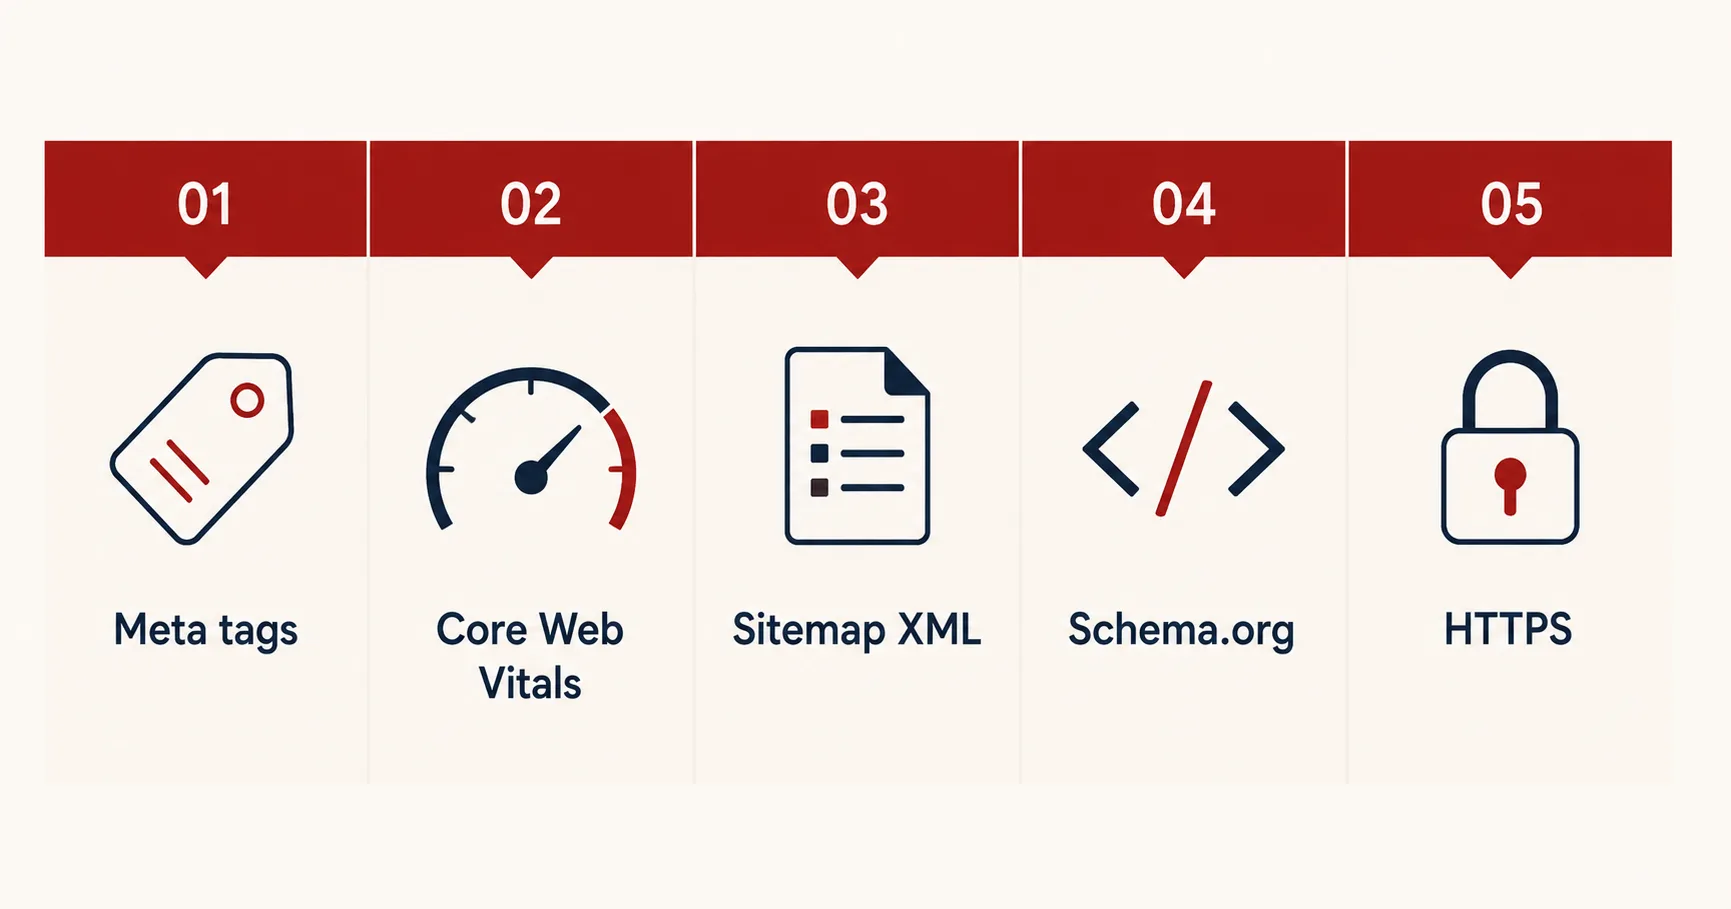
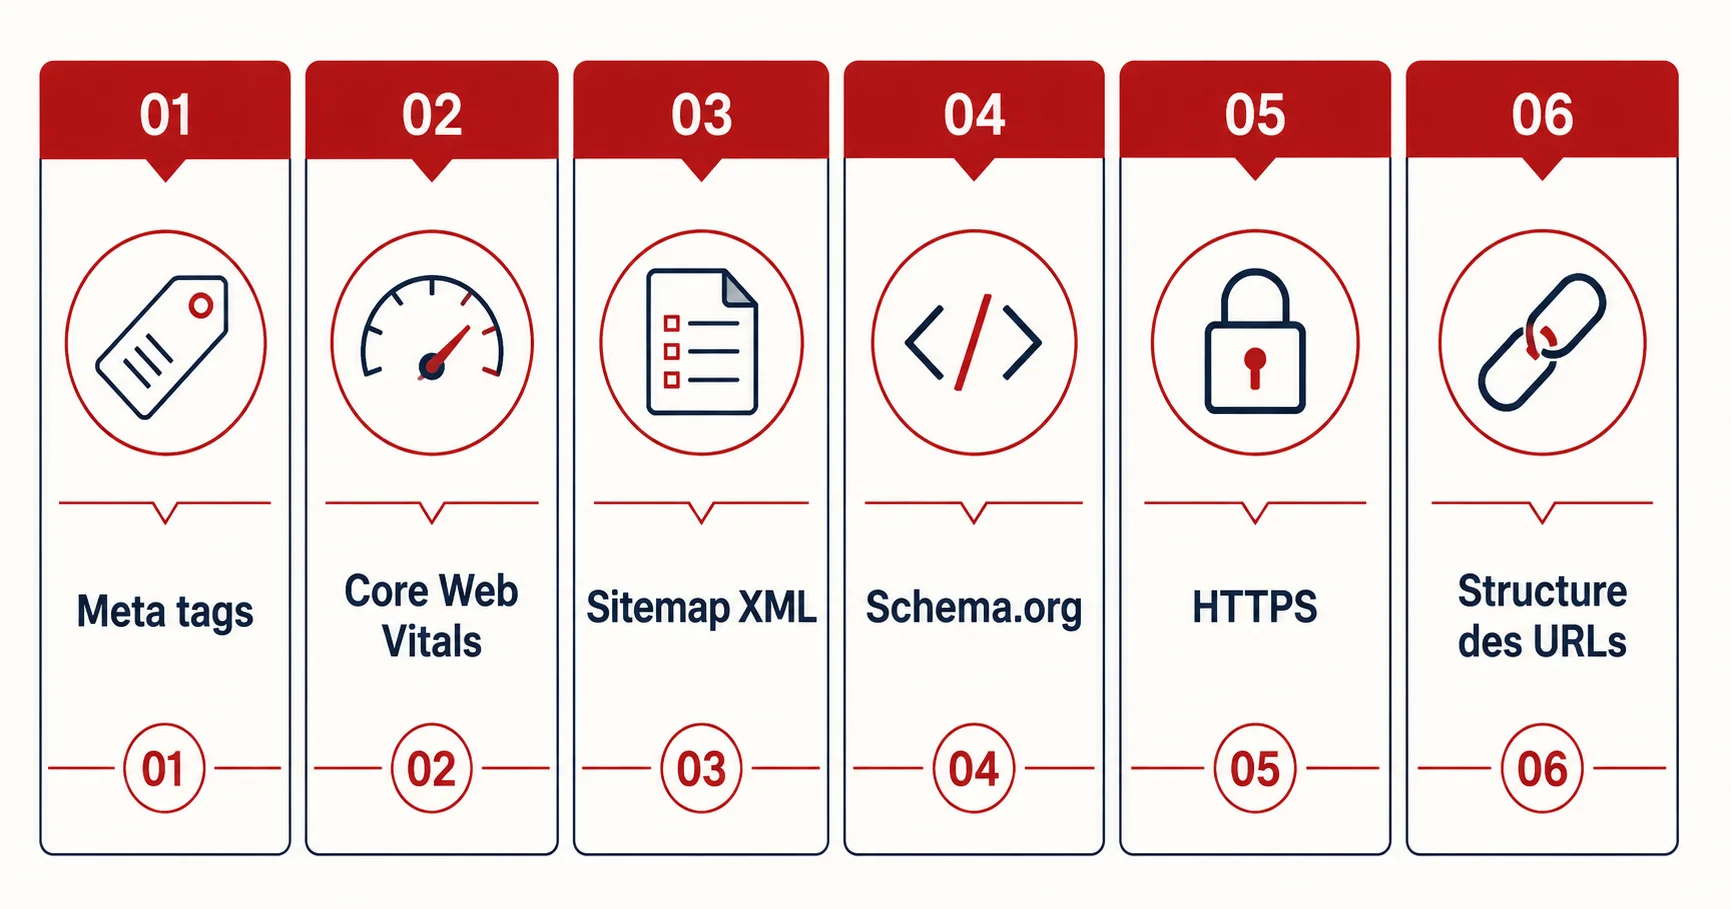
feat: SEO blog — intros + fact-check 4 articles
- Champ intro sur les 4 articles (réponse directe intention de recherche)
- Intro remontée avant image hero dans le HTML (.article-intro block)
- Classe CSS .article-intro ajoutée
- Infographie article 1 : WebP 6 piliers (1.2MB PNG -> 85KB), légende corrigée
- Article 1 : note restriction FAQPage Google août 2023
- Article 3 : pourcentage AI Overviews sourcé BrightEdge/AWR 2026 (48-60pct)
- Article 3 : note dépreciation HowTo schema SERP sept. 2023
- Article 4 : prix Cloud o2switch aligné image (12 EUR HT + promo)

Changed region(s): [[0.0, 0.0616, 0.9671, 0.9549]]

diff --git a/assets/css/style.css b/assets/css/style.css
@@ -1585,6 +1585,16 @@ main, .footer { position: relative; z-index: 1; }
   margin: 0;
 }
 
+.article-intro {
+  font-size: 18px;
+  line-height: 1.75;
+  padding: 32px 0 0;
+}
+.article-intro p { margin: 0 0 20px; }
+.article-intro strong { font-weight: 700; }
+.article-intro ul { padding-left: 28px; margin: 0 0 20px; }
+.article-intro li { margin-bottom: 10px; }
+
 .article-body {
   font-size: 18px;
   line-height: 1.75;

diff --git a/models/ArticleModel.php b/models/ArticleModel.php
@@ -56,18 +56,30 @@ class ArticleModel
                 'title'        => 'SEO technique : les fondations que tout développeur web doit maîtriser',
                 'excerpt'      => 'Balises meta, Core Web Vitals, données structurées, HTTPS… Un guide pratique de référencement technique pour développeurs qui veulent que leur site soit correctement indexé par Google.',
                 'date'         => '2026-04-10',
-                'date_updated' => '2026-05-10',
+                'date_updated' => '2026-05-19',
                 'category'     => 'SEO',
                 'read_time'    => 7,
                 'cover_image'  => '/assets/image/blog/cover-seo-technique-developpeur.webp',
                 'og_image'     => 'https://yelidev.ca/assets/image/blog/og-seo-technique-developpeur.jpg',
                 'keywords'     => 'SEO technique, référencement technique, Core Web Vitals, balises meta, données structurées, robots.txt, sitemap XML, développeur web',
+                'intro'        => <<<INTRO
+<p>Le <strong>référencement technique</strong> regroupe les optimisations de code et d'infrastructure qui permettent à Google de crawler, comprendre et indexer correctement un site. Sans ces bases, même un contenu excellent reste invisible dans les résultats de recherche — c'est pourquoi elles doivent être posées dès le lancement, pas ajoutées après coup.</p>
+<p>Voici les <strong>6 fondations incontournables</strong> du SEO technique :</p>
+<ul>
+  <li><strong>Balises meta</strong> — title unique (50–60 car.) et meta description (150–160 car.) sur chaque page</li>
+  <li><strong>Core Web Vitals</strong> — LCP &lt; 2,5 s, INP &lt; 200 ms, CLS &lt; 0,1, mesurés au 75e percentile sur de vrais utilisateurs Chrome (signal de classement Google depuis juin 2021)</li>
+  <li><strong>Sitemap XML</strong> soumis à Google Search Console</li>
+  <li><strong>Robots.txt</strong> configuré pour concentrer le budget de crawl sur les pages utiles</li>
+  <li><strong>Données structurées JSON-LD</strong> (Schema.org) pour que Google et les IA de recherche comprennent le contexte de chaque page</li>
+  <li><strong>HTTPS</strong> avec redirection 301 permanente et zéro mixed content</li>
+</ul>
+<p>Ce guide détaille chaque point avec les valeurs cibles, les erreurs les plus courantes et les outils gratuits pour tout auditer. Si vous confiez la création de votre site à un développeur, ces 6 éléments devraient être inclus par défaut dans toute prestation sérieuse.</p>
+INTRO,
                 'content'      => <<<HTML
-<p>Vous livrez du code propre, performant, bien architecturé — mais est-ce que Google peut réellement l'indexer et le comprendre ? Le <strong>SEO technique</strong>, c'est la couche invisible que la plupart des développeurs bâclent. Sans ces fondations, même le meilleur contenu reste invisible. Voici les points essentiels à mettre en place dès le lancement d'un site.</p>
 
 <figure class="article-img">
-  <img src="/assets/image/blog/5-piliers-seo-technique-infographie.webp" alt="Infographie des 5 piliers du SEO technique : balises meta, Core Web Vitals, indexation, sécurité et données structurées" loading="lazy" decoding="async">
-  <figcaption>Les 5 fondations du référencement technique à mettre en place sur tout site web</figcaption>
+  <img src="/assets/image/blog/5-piliers-seo-technique-infographie.webp" alt="Infographie des 6 piliers du SEO technique : balises meta, Core Web Vitals, sitemap XML, Schema.org, HTTPS et structure des URLs" loading="lazy" decoding="async">
+  <figcaption>Les 6 fondations du référencement technique à mettre en place sur tout site web</figcaption>
 </figure>
 
 <h2>1. Les balises meta : le minimum syndical du référencement technique</h2>
@@ -115,12 +127,12 @@ class ArticleModel
   <li><code>BlogPosting</code> pour les articles de blog</li>
   <li><code>FAQPage</code> pour les sections de questions fréquentes</li>
 </ul>
-<p>Ces marqueurs peuvent générer des <strong>rich snippets</strong> dans les résultats Google — étoiles, FAQ dépliables, extraits de recettes — ce qui augmente significativement le taux de clic (CTR) sans améliorer le classement directement.</p>
-<p>Pour aller plus loin sur le sujet, notre article <a href="/blog/geo-optimiser-site-ia-chatgpt-perplexity">GEO et données structurées pour les IA de recherche</a> détaille comment les schemas influencent également les réponses de ChatGPT et Perplexity.</p>
+<p>Certains schemas génèrent des <strong>rich snippets</strong> dans les résultats Google (étoiles, extraits de prix, fil d'Ariane) qui augmentent le taux de clic sans améliorer directement le classement. <strong>Note :</strong> depuis août 2023, les rich snippets FAQ en SERP sont réservés aux sites gouvernementaux et de santé — mais le schema <code>FAQPage</code> reste pertinent pour les IA de recherche (ChatGPT, Perplexity, Google AI Overviews) qui s'en servent pour générer des réponses structurées.</p>
+<p>Pour aller plus loin sur le sujet, notre article <a href="/blog/geo-optimiser-site-ia-chatgpt-perplexity">GEO et données structurées pour les IA de recherche</a> détaille comment les schemas influencent les réponses de ChatGPT et Perplexity.</p>
 
 <figure class="article-img">
-  <img src="/assets/image/blog/rich-snippet-google-schema-faq-markup.webp" alt="Exemple de rich snippet Google avec section FAQ dépliable générée grâce aux données structurées Schema.org" loading="lazy" decoding="async">
-  <figcaption>Les rich snippets FAQ générés par Schema.org augmentent la visibilité et le taux de clic dans les résultats Google</figcaption>
+  <img src="/assets/image/blog/rich-snippet-google-schema-faq-markup.webp" alt="Exemple de rich snippet Google avec section FAQ et données structurées JSON-LD Schema.org visibles dans les DevTools" loading="lazy" decoding="async">
+  <figcaption>Les données structurées JSON-LD permettent à Google et aux IA de recherche de comprendre le contexte de votre page — certains schemas génèrent des rich snippets dans les SERPs</figcaption>
 </figure>
 
 <h2>5. HTTPS et en-têtes de sécurité : confiance et classement</h2>
@@ -177,6 +189,17 @@ HTML,
                 'cover_image'  => '/assets/image/blog/cover-seo-local-montreal.webp',
                 'og_image'     => 'https://yelidev.ca/assets/image/blog/og-seo-local-montreal.jpg',
                 'keywords'     => 'SEO local Montréal, référencement local Québec, Google Business Profile, NAP, LocalBusiness schema, avis Google, citations locales, site vitrine Montréal',
+                'intro'        => <<<INTRO
+<p>Pour qu'une PME ou un entrepreneur à Montréal apparaisse dans les résultats de <strong>recherche locale</strong> sur Google, cinq leviers sont déterminants :</p>
+<ul>
+  <li><strong>Google Business Profile</strong> — fiche complète (catégorie précise, photos, description de 750 car., horaires à jour) : c'est le levier numéro un du <strong>SEO local à Montréal</strong></li>
+  <li><strong>Cohérence NAP</strong> — Nom, Adresse, Téléphone <em>rigoureusement identiques</em> sur votre site, votre fiche GBP et tous les annuaires québécois</li>
+  <li><strong>Signaux on-page géolocalisés</strong> — ville et quartiers mentionnés dans le title, le H1 et le contenu ; schema <code>LocalBusiness</code> JSON-LD</li>
+  <li><strong>Avis Google</strong> — quantité, note moyenne et fréquence influencent directement votre position dans le Local Pack</li>
+  <li><strong>Citations locales</strong> — présence sur Pages Jaunes Canada, Yelp Canada, Clutch.co et la Chambre de commerce de Montréal</li>
+</ul>
+<p>Ces cinq leviers sont accessibles à toute entreprise locale sans budget publicitaire. Un site vitrine bien optimisé localement génère un flux de trafic qualifié en continu — contrairement aux annonces Google Ads qui s'arrêtent dès que le budget est coupé. Ce guide détaille comment mettre chaque levier en place.</p>
+INTRO,
                 'content'      => <<<HTML
 <p>Chaque mois, des milliers de Québécois tapent sur Google "développeur web Montréal", "agence web Laval" ou "site vitrine pas cher Québec". Si votre site n'apparaît pas dans ces résultats de <strong>recherche locale</strong>, vous perdez des clients au profit de vos concurrents — sans même le savoir. Le <strong>SEO local à Montréal</strong> n'est pas réservé aux grandes entreprises : c'est précisément l'outil qui permet aux PME et indépendants de rivaliser avec les gros budgets publicitaires.</p>
 
@@ -284,6 +307,18 @@ HTML,
                 'cover_image'  => '/assets/image/blog/cover-geo-ia-chatgpt-perplexity.webp',
                 'og_image'     => 'https://yelidev.ca/assets/image/blog/og-geo-ia-chatgpt-perplexity.jpg',
                 'keywords'     => 'GEO, Generative Engine Optimization, AI Overviews, ChatGPT SEO, Perplexity optimisation, llms.txt, E-E-A-T, zero-click search, référencement IA 2026',
+                'intro'        => <<<INTRO
+<p>Le <strong>GEO (Generative Engine Optimization)</strong> désigne l'ensemble des pratiques qui permettent à votre contenu d'être sélectionné et cité par les moteurs de recherche basés sur l'IA : Google AI Overviews, ChatGPT (navigation web), Perplexity et Bing Copilot. En 2026, les pages citées dans les AI Overviews gagnent en moyenne <strong>120 % de clics organiques supplémentaires</strong> par rapport aux pages non citées sur les mêmes requêtes (BrightEdge, 2026).</p>
+<p>Cinq leviers concrets permettent d'optimiser votre site pour les IA de recherche :</p>
+<ul>
+  <li><strong>Écrire pour les passages</strong> — chaque H2 doit répondre complètement à une question dès les premières lignes, sans introduction vague</li>
+  <li><strong>E-E-A-T</strong> — auteur identifié avec photo et bio, date de mise à jour visible, sources citées, expériences vécues originales</li>
+  <li><strong>Fichier llms.txt</strong> — guider les crawlers d'IA vers votre contenu pertinent, comme un robots.txt pour les LLM</li>
+  <li><strong>Données structurées JSON-LD</strong> — <code>FAQPage</code>, <code>Article</code>, <code>Person</code> pour que les IA comprennent le type et le contexte de chaque page</li>
+  <li><strong>Digital PR</strong> — multiplier vos mentions sur des sources variées et crédibles pour exister dans les données des modèles de langage</li>
+</ul>
+<p>Ce guide détaille chaque levier avec des exemples concrets. Le GEO s'appuie sur les mêmes fondations techniques que le SEO — si vous n'avez pas encore posé ces bases, commencez par notre guide <a href="/blog/seo-technique-pour-developpeur">SEO technique pour développeurs</a>.</p>
+INTRO,
                 'content'      => <<<HTML
 <p>En 2026, chercher une information sur Google ne retourne plus toujours une liste de liens. Pour des millions de requêtes, Google affiche une <strong>réponse synthétique générée par l'IA</strong> — les AI Overviews — avant même les résultats classiques. ChatGPT répond à des questions qui auraient jadis mené sur votre site. Perplexity cite directement ses sources. C'est ce changement qui a fait émerger une nouvelle pratique : le <strong>GEO (Generative Engine Optimization)</strong>.</p>
 
@@ -298,7 +333,7 @@ HTML,
 <p>Le GEO s'appuie sur les mêmes fondations techniques que le SEO. Si vous n'avez pas encore posé ces bases, notre article <a href="/blog/seo-technique-pour-developpeur">SEO technique pour développeurs</a> est le point de départ indispensable.</p>
 
 <h2>Pourquoi le GEO va devenir aussi important que le SEO</h2>
-<p>Les <strong>AI Overviews de Google</strong> apparaissent sur plus de 30 % des requêtes informationnelles — parfois plus de 60 % sur les requêtes du type "comment faire X" ou "qu'est-ce que Y". Les utilisateurs qui obtiennent une réponse directe de l'IA cliquent moins sur les liens organiques — c'est ce qu'on appelle le phénomène de "zero-click search".</p>
+<p>Les <strong>AI Overviews de Google</strong> apparaissent sur une part croissante des requêtes : selon BrightEdge, environ 48 % des requêtes trackées en début 2026, et jusqu'à 60 % selon Advanced Web Ranking — avec une surreprésentation sur les requêtes informationnelles du type "comment faire X" ou "qu'est-ce que Y". Les utilisateurs qui obtiennent une réponse directe de l'IA cliquent moins sur les liens organiques — c'est ce qu'on appelle le phénomène de "zero-click search".</p>
 <p>Pour les créateurs de contenu et les développeurs web, cela signifie qu'il ne suffit plus d'être bien classé sur Google. Il faut aussi être la source que l'IA choisit de citer.</p>
 
 <figure class="article-img">
@@ -342,7 +377,7 @@ HTML,
 <p>Les <strong>données structurées</strong> sont encore plus importantes pour le GEO que pour le SEO classique. Elles permettent aux IA de comprendre immédiatement le type, le contexte et la fiabilité de votre contenu sans avoir à l'interpréter. Les schemas les plus efficaces pour le <strong>Generative Engine Optimization</strong> :</p>
 <ul>
   <li><code>FAQPage</code> — idéal pour apparaître dans les AI Overviews sur des questions fréquentes</li>
-  <li><code>HowTo</code> — parfait pour les guides étape par étape que ChatGPT et Perplexity adorent citer</li>
+  <li><code>HowTo</code> — structure vos guides étape par étape pour les IA (Google a retiré les HowTo rich results des SERPs en septembre 2023, mais le schema reste utile pour la compréhension par les LLM)</li>
   <li><code>Article</code> / <code>BlogPosting</code> — signale à l'IA que le contenu est journalistique et citable</li>
   <li><code>Person</code> — renforce l'autorité de l'auteur auprès des modèles de langage</li>
 </ul>
@@ -394,6 +429,19 @@ HTML,
                 'cover_image'  => '/assets/image/blog/cover-hebergement-web-o2switch.webp',
                 'og_image'     => 'https://yelidev.ca/assets/image/blog/og-hebergement-web-o2switch.jpg',
                 'keywords'     => 'hébergement web, o2switch avis, meilleur hébergeur 2026, hébergement mutualisé, VPS, NVMe, hébergement site vitrine, Core Web Vitals hébergement',
+                'intro'        => <<<INTRO
+<p>Le choix de l'<strong>hébergement web</strong> impacte directement trois métriques SEO critiques : le TTFB (temps de réponse serveur), le LCP et la disponibilité du site. Un hébergeur lent plombe vos Core Web Vitals avant même que Google évalue votre contenu.</p>
+<p>Six critères permettent de séparer les bons hébergeurs des mauvais :</p>
+<ul>
+  <li><strong>Stockage NVMe</strong> — jusqu'à 7× plus rapide que les SSD classiques, impact direct sur le TTFB</li>
+  <li><strong>Uptime garanti ≥ 99,9 %</strong> — vérifiez les rapports indépendants, pas seulement les promesses marketing</li>
+  <li><strong>SSL gratuit automatique</strong> — Let's Encrypt inclus sans configuration manuelle</li>
+  <li><strong>Serveurs en France ou en Europe</strong> — latence réduite pour les sites francophones, conformité RGPD native</li>
+  <li><strong>Sauvegardes quotidiennes automatiques</strong> — restauration simple et gratuite incluse</li>
+  <li><strong>Support francophone compétent</strong> — réactif et techniquement utile, pas des réponses génériques</li>
+</ul>
+<p>Après avoir testé OVH, Infomaniak, PlanetHoster et Hostinger sur des projets clients réels, j'utilise <strong>o2switch</strong> comme hébergeur de référence. Ce guide explique pourquoi — avec les offres, les prix actuels et ce que j'aurais aimé savoir avant de choisir mon premier hébergeur.</p>
+INTRO,
                 'content'      => <<<HTML
 <p class="article-disclosure">🔗 <em>Cet article contient des liens affiliés vers o2switch. Si vous souscrivez via ces liens, je perçois une commission — sans surcoût pour vous. Je ne recommande que les outils que j'utilise réellement dans mes projets clients.</em></p>
 
@@ -487,7 +535,7 @@ HTML,
 <p>o2switch propose plusieurs formules adaptées à différents profils :</p>
 <ul>
   <li><strong>Grow</strong> (7 €/mois) : idéal pour débuter, un seul site, ressources modérées. Parfait pour un premier <strong>site vitrine</strong>.</li>
-  <li><strong>Cloud</strong> (offre vedette, souvent à moins de 2 €/mois en promotion) : accès à 12 vCPU et 48 Go de RAM. Excellent rapport qualité/prix pour un professionnel ou une agence.</li>
+  <li><strong>Cloud</strong> (12 €/mois HT, souvent autour de 1,86 €/mois la première année en promotion) : 12 vCPU et 48 Go de RAM. Excellent rapport qualité/prix pour un professionnel ou une agence.</li>
   <li><strong>Pro</strong> (6,25 €/mois) : 24 vCPU et 64 Go de RAM pour les projets à fort trafic ou les boutiques e-commerce actives.</li>
 </ul>
 <p>Pour la majorité des PME et entrepreneurs, l'<strong>offre Cloud</strong> représente le meilleur compromis — des ressources largement suffisantes pour plusieurs sites, à un prix très compétitif.</p>

diff --git a/views/pages/blog-article.php b/views/pages/blog-article.php
@@ -14,6 +14,12 @@
     <p class="article-excerpt"><?= htmlspecialchars($article['excerpt']) ?></p>
   </header>
 
+  <?php if (!empty($article['intro'])): ?>
+  <div class="article-intro">
+    <?= $article['intro'] ?>
+  </div>
+  <?php endif; ?>
+
   <?php if (!empty($article['cover_image'])): ?>
   <div class="article-hero">
     <img
